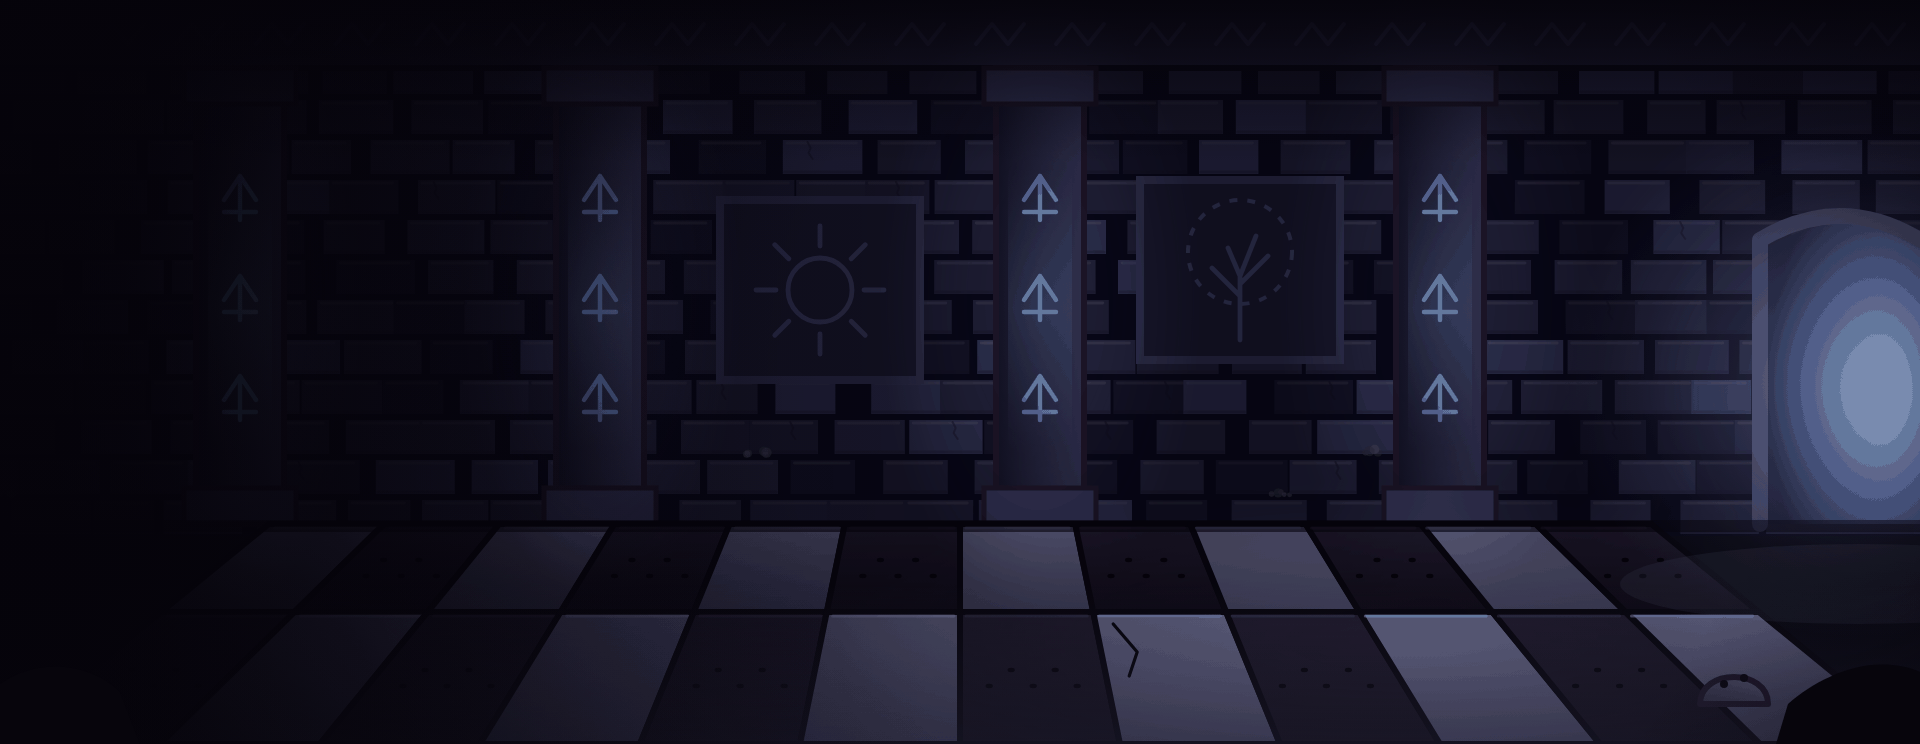
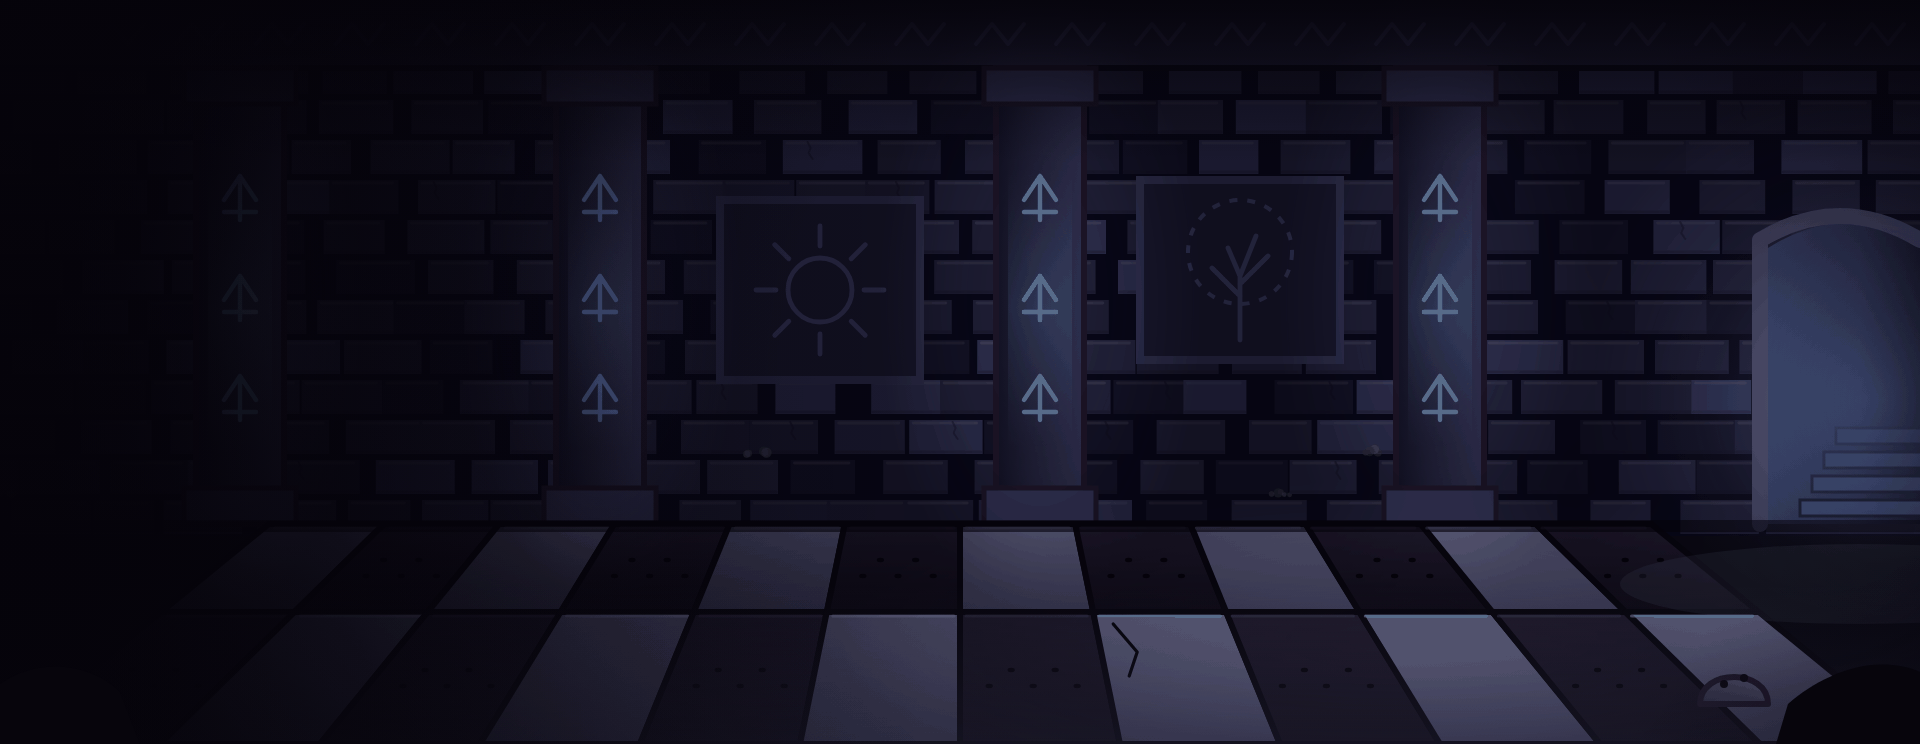
Roi des rats : correctif des boucles d'attente en double
Claude-Session: https://claude.ai/code/session_014tBbPJtKqYNLRAPgA5SpCV

Changed region(s): [[0.9062, 0.3091, 1.0, 0.711]]

diff --git a/jeu/donjon/scenes/scenes.js b/jeu/donjon/scenes/scenes.js
@@ -41,12 +41,17 @@ function mix(a, b, t){ var A = hx(a), B = hx(b); return '#' + A.map(function(v, 
 function clair(c, t){ return mix(c, '#fff6e6', t); }
 function sombre(c, t){ return mix(c, '#120a1e', t); }
 function rng(s){ return function(){ s = (s * 9301 + 49297) % 233280; return s / 233280; }; }
-function P(d, f, x){ return '<path d="' + d + '" fill="' + f + '" stroke="' + O + '" stroke-width="3" stroke-linejoin="round" stroke-linecap="round"' + (x || '') + '/>'; }
-function L(d, c, w, x){ return '<path d="' + d + '" fill="none" stroke="' + c + '" stroke-width="' + w + '" stroke-linejoin="round" stroke-linecap="round"' + (x || '') + '/>'; }
-function F(d, f, x){ return '<path d="' + d + '" fill="' + f + '"' + (x || '') + '/>'; }
-function C(x, y, r, f, x2){ return '<circle cx="' + r1(x) + '" cy="' + r1(y) + '" r="' + r1(r) + '" fill="' + f + '"' + (x2 || '') + '/>'; }
-function E(x, y, rx, ry, f, x2){ return '<ellipse cx="' + r1(x) + '" cy="' + r1(y) + '" rx="' + r1(rx) + '" ry="' + r1(ry) + '" fill="' + f + '"' + (x2 || '') + '/>'; }
-function Rc(x, y, w, h, f, x2){ return '<rect x="' + r1(x) + '" y="' + r1(y) + '" width="' + r1(w) + '" height="' + r1(h) + '" fill="' + f + '"' + (x2 || '') + '/>'; }
+/* les attributs : ceux d'origine, remplacés par ceux qu'on ajoute (x) — jamais deux fois le même (le SVG d'une <img> est lu en XML strict) */
+function at(base, x){
+  if(x){ var re = /([\w:-]+)="([^"]*)"/g, m; while((m = re.exec(x))) base[m[1]] = m[2]; }
+  var s = ''; for(var k in base) if(base[k] != null) s += ' ' + k + '="' + base[k] + '"'; return s;
+}
+function P(d, f, x){ return '<path' + at({d: d, fill: f, stroke: O, 'stroke-width': 3, 'stroke-linejoin': 'round', 'stroke-linecap': 'round'}, x) + '/>'; }
+function L(d, c, w, x){ return '<path' + at({d: d, fill: 'none', stroke: c, 'stroke-width': w, 'stroke-linejoin': 'round', 'stroke-linecap': 'round'}, x) + '/>'; }
+function F(d, f, x){ return '<path' + at({d: d, fill: f}, x) + '/>'; }
+function C(x, y, r, f, x2){ return '<circle' + at({cx: r1(x), cy: r1(y), r: r1(r), fill: f}, x2) + '/>'; }
+function E(x, y, rx, ry, f, x2){ return '<ellipse' + at({cx: r1(x), cy: r1(y), rx: r1(rx), ry: r1(ry), fill: f}, x2) + '/>'; }
+function Rc(x, y, w, h, f, x2){ return '<rect' + at({x: r1(x), y: r1(y), width: r1(w), height: r1(h), fill: f}, x2) + '/>'; }
 function op(v){ return ' opacity="' + r1(v * 100) / 100 + '"'; }
 /* un chemin écrit autour d'un centre (cx, cy) : chaque paire « x y » est décalée */
 function T(d, cx, cy){ return d.replace(/(-?\d+(?:\.\d+)?) (-?\d+(?:\.\d+)?)/g, function(m, a, b){ return r1(cx + +a) + ' ' + r1(cy + +b); }); }
@@ -676,7 +681,8 @@ FONDS.dalles = function(){
   s += Rc(0, 0, W, H, '#0a0a14');
   s += murBriques(d, {x0: -20, y0: -10, x1: W + 20, y1: Y0 + 6, bw: 40, bh: 20, c: '#262640', j: '#08081a', cl: '#34365a', fo: '#16162c', mousse: 0.06, seed: 59});
   /* la sortie du couloir, au bout (à droite) : une porte où il fait jour… pâle */
-  s += F('M884 ' + Y0 + ' L 884 124 Q 922 100 960 122 L 960 ' + Y0 + ' Z', d.rad([[0, '#b8c8f0'], [0.5, '#5a6aa8'], [1, '#1a2040']], 0.8, 0.55, 0.8));
+  s += F('M884 ' + Y0 + ' L 884 124 Q 922 100 960 122 L 960 ' + Y0 + ' Z', d.lin([[0, '#3a4470'], [0.6, '#2a3258'], [1, '#141a30']], 0, 0, 1, 0));
+  for(var m = 0; m < 4; m++) s += Rc(900 + m * 6, Y0 - 12 - m * 12, 70 - m * 6, 8, '#4a5480', ' stroke="#141a30" stroke-width="1.5" opacity="' + (0.9 - m * 0.18) + '"');
   s += L('M880 ' + Y0 + ' L 880 120 Q 920 96 960 120', '#4a4a70', 8);
   /* les pilastres gravés de runes (bleues) et la frise */
   s += Rc(0, 0, W, 34, d.lin([[0, '#1a1a30'], [1, '#2e2e4c']])) + L('M0 34 H ' + W, '#0a0a18', 3);
@@ -707,7 +713,7 @@ FONDS.dalles = function(){
   s += Rc(0, Y0 - 2, W, 6, '#05030a', op(0.6));
   s += E(930, Y0 + 30, 120, 20, '#cfe0ff', op(0.08));
   s += nuit(d, 0.55, [[120, 150, 60, 150, 0.6], [300, 150, 70, 150, 0.7], [520, 150, 80, 160, 0.8], [720, 150, 80, 160, 0.8], [930, 200, 150, 160, 0.9], [700, 320, 280, 80, 0.6]]);
-  s += ecran(E(930, 190, 150, 130, d.halo('#9ab8ff', 0.28)));
+  s += ecran(E(940, 200, 120, 110, d.halo('#9ab8ff', 0.2)));
   s += brumeSol(d, H - 20, '#8a90c0', 0.12);
   s += vignette(d, 640, 190, 1) + avantPlan();
   return svgTexte(d, W, H, s);
@@ -1121,7 +1127,7 @@ A.sarcoCouvercle = function(){ return art('sv', 300, 76, function(d){
     P('M70 56 C 70 46 96 44 110 46 C 150 42 200 42 236 48 C 244 50 244 58 236 60 C 200 62 150 62 110 60 C 96 62 70 64 70 56 Z', d.lin([[0, '#8a84a0'], [1, '#4a4460']]), ' stroke-width="2.2"') +
     E(84, 53, 12, 8, d.g('#8a84a0'), ' stroke="' + O + '" stroke-width="2"') + L('M150 46 C 150 52 160 54 166 50', '#3a3450', 1.6) + L('M110 50 L 230 50', '#a8a0c0', 1, op(0.5)); }); };
 A.sarcoLumiere = function(){ return art('sl', 300, 176, function(d){
-  return F('M40 66 L 260 66 L 230 -6 L 70 -6 Z', d.lin([[0, '#ffd070', 0], [1, '#ffd070', 0.45]])) + E(150, 64, 110, 14, d.halo('#ffe8a0', 0.9)) + E(150, 50, 70, 40, d.halo('#ffd060', 0.5)); }); };
+  return F('M36 66 L 190 66 L 166 -6 L 60 -6 Z', d.lin([[0, '#ffd070', 0], [1, '#ffd070', 0.45]])) + E(112, 64, 84, 13, d.halo('#ffe8a0', 0.9)) + E(112, 48, 60, 40, d.halo('#ffd060', 0.5)); }); };
 A.amulette = function(){ return art('am', 52, 66, function(d){
   return L('M12 4 Q 26 26 40 4', O, 4.4) + L('M12 4 Q 26 26 40 4', '#e8c062', 2.2) + C(26, 20, 3, '#e8c062', ' stroke="' + O + '" stroke-width="1.6"') +
     P('M10 34 C 2 30 2 22 8 24 C 12 26 14 30 16 32 Z', d.g('#ffe08a'), ' stroke-width="1.8"') + P('M42 34 C 50 30 50 22 44 24 C 40 26 38 30 36 32 Z', d.g('#ffe08a'), ' stroke-width="1.8"') +
@@ -1142,11 +1148,12 @@ A.flamme = function(w, h, c1, c2, c3, o){ return art('fl', w, h, function(d){
     ' C ' + r1(w * 0.96) + ' ' + r1(h * 0.42) + ' ' + w + ' ' + r1(h * 0.7) + ' ' + r1(w * 0.88) + ' ' + r1(h * 0.86) + ' C ' + r1(w * 0.8) + ' ' + r1(h * 0.96) + ' ' + r1(w * 0.66) + ' ' + h + ' ' + r1(w / 2) + ' ' + h + ' Z';
   return F(f, g, o ? ' stroke="#c83a10" stroke-width="2" stroke-opacity=".6"' : ''); }); };
 /* le ruban d'Odette, noué au clou */
-A.ruban = function(){ return art('ru', 44, 84, function(d){
+A.ruban = function(){ return art('ru', 60, 112, function(d){
   var g = d.lin([[0, '#ff6a6a'], [0.5, '#d03a3a'], [1, '#8a1a1a']], 1, 0, 0, 1);
-  return P('M22 8 C 26 30 18 50 24 80 L 30 78 C 26 50 32 30 26 8 Z', g, ' stroke-width="2.2"') + P('M20 8 C 14 28 10 46 4 66 L 10 68 C 16 48 20 30 24 10 Z', g, ' stroke-width="2.2"') +
-    P('M22 8 C 12 -2 4 2 6 10 C 8 16 16 14 22 10 Z', g, ' stroke-width="2.2"') + P('M24 8 C 32 -2 40 2 38 10 C 36 16 28 14 24 10 Z', g, ' stroke-width="2.2"') + C(23, 9, 4, '#b02a2a', ' stroke="' + O + '" stroke-width="2"') +
-    L('M24 20 C 22 40 26 56 26 74', '#ffb0b0', 1, op(0.6)); }); };
+  return P('M28 14 C 36 40 26 70 38 104 L 30 98 L 24 106 C 16 72 26 42 24 16 Z', g, ' stroke-width="2.4"') + P('M27 14 C 18 36 16 60 6 86 L 14 84 L 16 92 C 26 64 30 38 31 16 Z', g, ' stroke-width="2.4"') +
+    P('M28 14 C 14 -2 2 4 6 16 C 10 26 22 22 28 16 Z', g, ' stroke-width="2.4"') + P('M30 14 C 44 -2 58 4 54 16 C 50 26 38 22 30 16 Z', g, ' stroke-width="2.4"') +
+    E(29, 15, 6, 5, '#b02a2a', ' stroke="' + O + '" stroke-width="2.4"') + L('M12 10 Q 18 8 22 14 M48 10 Q 42 8 38 14', '#ffb0b0', 1.4, op(0.7)) +
+    L('M30 28 C 30 52 28 74 32 96 M24 30 C 22 50 18 66 12 82', '#ffb0b0', 1.2, op(0.55)); }); };
 /* des livres qui flottent */
 A.livre = function(c, ouvert){ return art('li', 60, 30, function(d){
   if(ouvert) return E(30, 24, 28, 5, '#0a2a2a', op(0.5)) + P('M4 20 Q 16 12 30 18 Q 44 12 56 20 L 56 24 Q 44 18 30 24 Q 16 18 4 24 Z', d.g(c), ' stroke-width="2"') + P('M8 18 Q 18 10 30 16 L 30 20 Q 18 14 8 22 Z', '#efe4c8', ' stroke-width="1.6"') + P('M52 18 Q 42 10 30 16 L 30 20 Q 42 14 52 22 Z', '#f6ecd6', ' stroke-width="1.6"');
@@ -1169,7 +1176,8 @@ A.chatCorps = function(){ return art('cb', 124, 120, function(d){
     /* le dos, rond comme une poire */
     P('M30 108 C 22 82 28 56 44 44 C 52 38 72 38 80 44 C 96 56 102 82 92 108 Z', g) +
     /* les rayures du chat tigré */
-    L('M40 60 Q 60 54 82 60 M34 74 Q 60 66 90 74 M32 88 Q 60 80 92 88 M36 100 Q 60 94 88 100', GRIS.s, 3, op(0.7)) + L('M62 42 L 62 104', clair(GRIS.c, 0.3), 2.4, op(0.4)) +
+    [54, 68, 82, 96].map(function(y, i){ var l = 22 + i * 3; return L('M58 ' + y + ' Q ' + (58 - l * 0.5) + ' ' + (y - 1) + ' ' + (58 - l) + ' ' + (y + 9), GRIS.s, 3.2, op(0.75)) + L('M66 ' + y + ' Q ' + (66 + l * 0.5) + ' ' + (y - 1) + ' ' + (66 + l) + ' ' + (y + 9), GRIS.s, 3.2, op(0.75)); }).join('') +
+    L('M62 44 L 62 106', GRIS.s, 4, op(0.5)) + L('M58 50 Q 46 62 40 84', clair(GRIS.c, 0.3), 2, op(0.35)) +
     /* la patte avant gauche, posée par terre (on la voit dépasser) */
     P('M36 92 C 30 100 30 108 34 112 L 46 112 C 46 104 44 98 40 92 Z', g, ' stroke-width="2.4"'); }); };
 A.chatPatte = function(){ return art('cp', 124, 120, function(d){
@@ -1389,10 +1397,10 @@ SALLES.portes = function(){
   return {nom: 'La salle aux trois portes', type: 'enigme', ambiance: 'un œil, une gueule, une lune', elements: el}; };
 SALLES['crypte-sarco'] = function(){ var S = SARCO; return {nom: 'La fausse crypte (le sarcophage)', type: 'objet-pose', ambiance: 'le sarcophage, à poser sur le décor de combat de la fausse crypte',
   elements: [
-    {id: 'sarcophage', type: 'sarcophage', nom: 'Le sarcophage', x: S.x, y: S.y, w: S.w, h: S.h, glisse: 120, z: 4,
+    {id: 'sarcophage', type: 'sarcophage', nom: 'Le sarcophage', x: S.x, y: S.y, w: S.w, h: S.h, glisse: 84, z: 4,
       pieces: [{id: 'cuve', svg: A.sarcoCuve(), x: 0, y: 0, w: S.w, h: S.h}, {id: 'interieur', svg: A.sarcoLumiere(), x: 0, y: -10, w: S.w, h: S.h, cache: true},
         {id: 'couvercle', svg: A.sarcoCouvercle(), x: 0, y: 6, w: S.w, h: 76, ox: 150, oy: 64}],
-      amulette: objet({id: 'amulette', nom: 'L\'amulette de vie', svg: A.amulette(), x: S.x + 124, y: S.y - 10, w: 52, h: 66, lueur: '#ffd06a', pour: 'tous'}),
+      amulette: objet({id: 'amulette', nom: 'L\'amulette de vie', svg: A.amulette(), x: S.x + 86, y: S.y - 10, w: 52, h: 66, lueur: '#ffd06a', pour: 'tous'}),
       zone: {x: S.x + 10, y: S.y + 40, w: S.w - 20, h: S.h - 34}},
     poussiere(540, 100, 380, 220, 6, '#c8b0ff', 'spores')
   ]}; };
@@ -1411,7 +1419,7 @@ SALLES.porte4 = function(){ var C0 = CHAT; return {nom: 'La porte aux quatre sig
   elements: [
     halo('lueur-sceau', 612, 60, 200, 200, '#7ff0ff', 0.3, 3200),
     halo('lueur-dessous', 600, SOL - 16, 224, 30, '#ffc070', 0.55, 1700),
-    {id: 'ruban', type: 'deco', nom: 'Le ruban d\'Odette', anim: 'balance', amplitude: 5, duree: 3800, svg: A.ruban(), x: 499, y: 183, w: 44, h: 84, pivot: [23, 8], z: 3},
+    {id: 'ruban', type: 'deco', nom: 'Le ruban d\'Odette', anim: 'balance', amplitude: 4, duree: 3800, svg: A.ruban(), x: 493, y: 178, w: 60, h: 112, pivot: [29, 14], z: 3},
     {id: 'moustache', type: 'chat', nom: 'Moustache', x: C0.x, y: C0.y, w: C0.w, h: C0.h, griffe: [0.78, 0.06], z: 5,
       pieces: [{id: 'queue', svg: A.chatQueue(), x: 0, y: 0, w: 124, h: 120, ox: 44, oy: 108}, {id: 'corps', svg: A.chatCorps(), x: 0, y: 0, w: 124, h: 120, ox: 62, oy: 114},
         {id: 'patte', svg: A.chatPatte(), x: 0, y: 0, w: 124, h: 120, ox: 78, oy: 56}, {id: 'tete-dos', svg: A.chatTeteDos(), x: 0, y: 0, w: 124, h: 120, ox: 62, oy: 48},

diff --git a/jeu/donjon/scenes/objets.js b/jeu/donjon/scenes/objets.js
@@ -78,7 +78,7 @@ var CSS = [
   /* les particules (étincelles, poussière, os…) */
   '.ob-fx{position:absolute;left:0;top:0;width:0;height:0;pointer-events:none;z-index:80}',
   '.ob-pt{position:absolute;left:0;top:0;will-change:transform,opacity;background:no-repeat center/contain;pointer-events:none}',
-  '.ob-terne{opacity:.55;transition:opacity .8s}'
+  '.ob-terne{opacity:1}'
 ].join('');
 function css(){
   if(document.getElementById('ob-css')) return;
@@ -493,9 +493,9 @@ Sarco.prototype.ouvrir = function(){
   this.ouvert = true; this.guider(false); this.actif(false);
   var p = this.p, c = this.c, d = this.def, self = this, cv = p.couvercle;
   var a = cv.animate([{transform: 'none'}, {transform: 'translateX(-3px)', offset: 0.06}, {transform: 'translateX(3px)', offset: 0.12}, {transform: 'translateX(-2px)', offset: 0.18}, {transform: 'translateX(0)', offset: 0.24},
-    {transform: 'translateX(' + (d.glisse || 120) + 'px) rotate(3deg)', offset: 0.8}, {transform: 'translate(' + ((d.glisse || 120) + 14) + 'px,22px) rotate(14deg)', offset: 0.92}, {transform: 'translate(' + ((d.glisse || 120) + 14) + 'px,18px) rotate(12deg)'}], {duration: 2000, easing: 'ease-in-out', fill: 'forwards'});
+    {transform: 'translateX(' + (d.glisse || 84) + 'px) rotate(2deg)', offset: 0.78}, {transform: 'translate(' + ((d.glisse || 84) + 12) + 'px,24px) rotate(11deg)', offset: 0.9}, {transform: 'translate(' + ((d.glisse || 84) + 12) + 'px,20px) rotate(9deg)'}], {duration: 2000, easing: 'ease-in-out', fill: 'forwards'});
   if(p.interieur){ p.interieur.classList.remove('ob-cache'); p.interieur.animate([{opacity: 0}, {opacity: 0, offset: 0.3}, {opacity: 1}], {duration: 2000, fill: 'forwards'}); }
-  setTimeout(function(){ for(var k = 0; k < 6; k++) particule(c, d.x + d.w * 0.75 + entre(-60, 60), d.y + d.h * 0.42, entre(36, 54), rond('#b0a8c0', 0.55), [{transform: 'scale(.3)', opacity: 0}, {transform: 'translateY(-8px) scale(1)', opacity: 0.8, offset: 0.3}, {transform: 'translate(' + entre(-30, 30).toFixed(0) + 'px,-30px) scale(1.7)', opacity: 0}], {duration: 1200, delay: k * 90}); }, 1800);
+  setTimeout(function(){ for(var k = 0; k < 6; k++) particule(c, d.x + d.w * 0.85 + entre(-50, 50), d.y + d.h * 0.5, entre(36, 54), rond('#b0a8c0', 0.55), [{transform: 'scale(.3)', opacity: 0}, {transform: 'translateY(-8px) scale(1)', opacity: 0.8, offset: 0.3}, {transform: 'translate(' + entre(-30, 30).toFixed(0) + 'px,-30px) scale(1.7)', opacity: 0}], {duration: 1200, delay: k * 90}); }, 1800);
   return fini(a).then(function(){
     var am = self.amulette; am.el.style.visibility = ''; am.actif(true);
     var b = am.el.animate([{opacity: 0, transform: 'translateY(36px) scale(.5)'}, {opacity: 1, transform: 'translateY(-10px) scale(1.15)', offset: 0.65}, {opacity: 1, transform: 'none'}], {duration: 900, easing: 'ease-out'});

diff --git a/jeu/donjon/anim/betes/roirats/roirats-anime.js b/jeu/donjon/anim/betes/roirats/roirats-anime.js
@@ -594,6 +594,7 @@ R._calque = function(scene){
    ===================================================================== */
 R._debutAction = function(){
   this.jeton++;
+  this.reprise = (this.reprise || 0) + 1;
   this.enAction = true;
   this._couperBoucles();
   return this.jeton;
@@ -603,12 +604,14 @@ R._finAction = function(j, duree){
   this.enAction = false;
   return this._reprendre(duree);
 };
+/* le jeton de reprise : une reprise interrompue par une autre (ou par une action) ne lance pas ses boucles,
+   sinon chaque pièce aurait deux boucles d'attente (la carte graphique ne compose plus, tout est redessiné à chaque image) */
 R._reprendre = function(duree){
-  var self = this;
+  var self = this, n = this.reprise = (this.reprise || 0) + 1;
   if(this.mort) return Promise.resolve();
   this._couperBoucles();
   return this._allerA(this._base(), duree == null ? 380 : duree, 'cubic-bezier(.3,.7,.3,1)', true).then(function(){
-    if(self.enAction || self.mort) return;
+    if(n !== self.reprise || self.enAction || self.mort) return;
     if(self.attente) self._lancerBoucles();
   });
 };

diff --git a/jeu/donjon/scenes/rendre.py b/jeu/donjon/scenes/rendre.py
@@ -148,7 +148,7 @@ def fluidite(p, ralenti):
 
 
 # des instants d'animation à photographier (vérification) : (salle, action, [moments en ms])
-INSTANTS = [('galerie', 0, [300, 700]), ('reserve', 0, [700, 1500, 2400]), ('eboulis', 0, [500, 1300, 2200]), ('eboulis', 1, [800]), ('eboulis', 3, [400, 900]), ('dalles', 1, [550, 900]),
+INSTANTS = [('galerie', 0, [300, 700]), ('reserve', 0, [700, 1500, 2400]), ('eboulis', 0, [500, 1300, 2200]), ('eboulis', 1, [800]), ('eboulis', 3, [900, 2200]), ('dalles', 1, [550, 900]),
             ('portes', 1, [700, 1400]), ('crypte-sarco', 0, [1500, 2600]), ('porte4', 0, [400, 1800, 2600]), ('leo', 0, [800]), ('leo', 1, [1000]), ('camp', 0, [300])]
 
 
